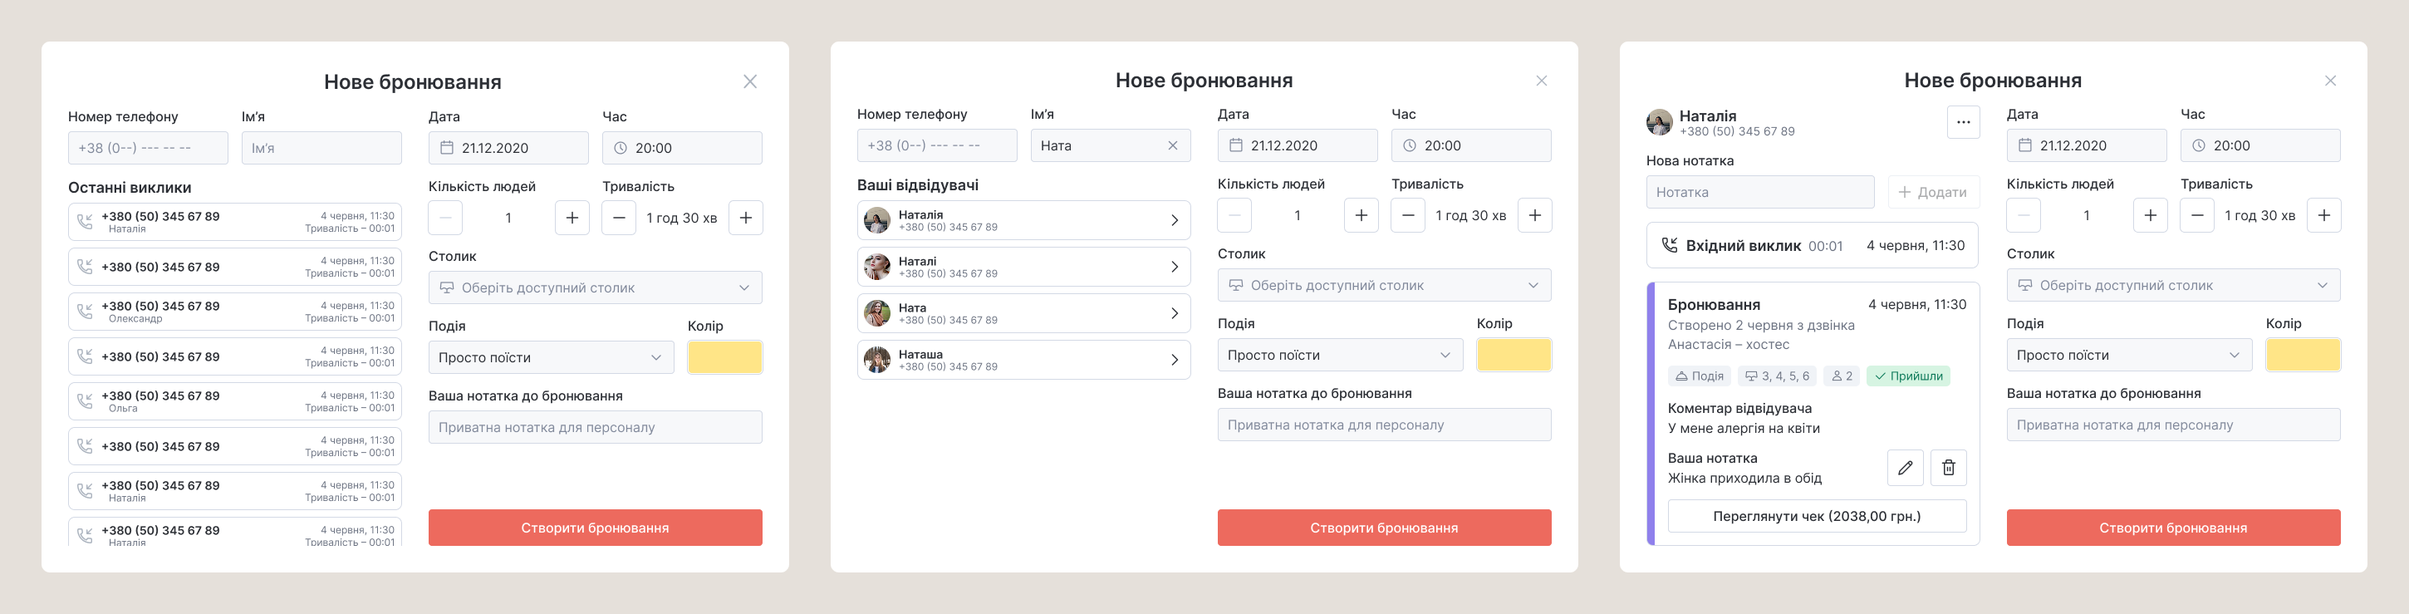
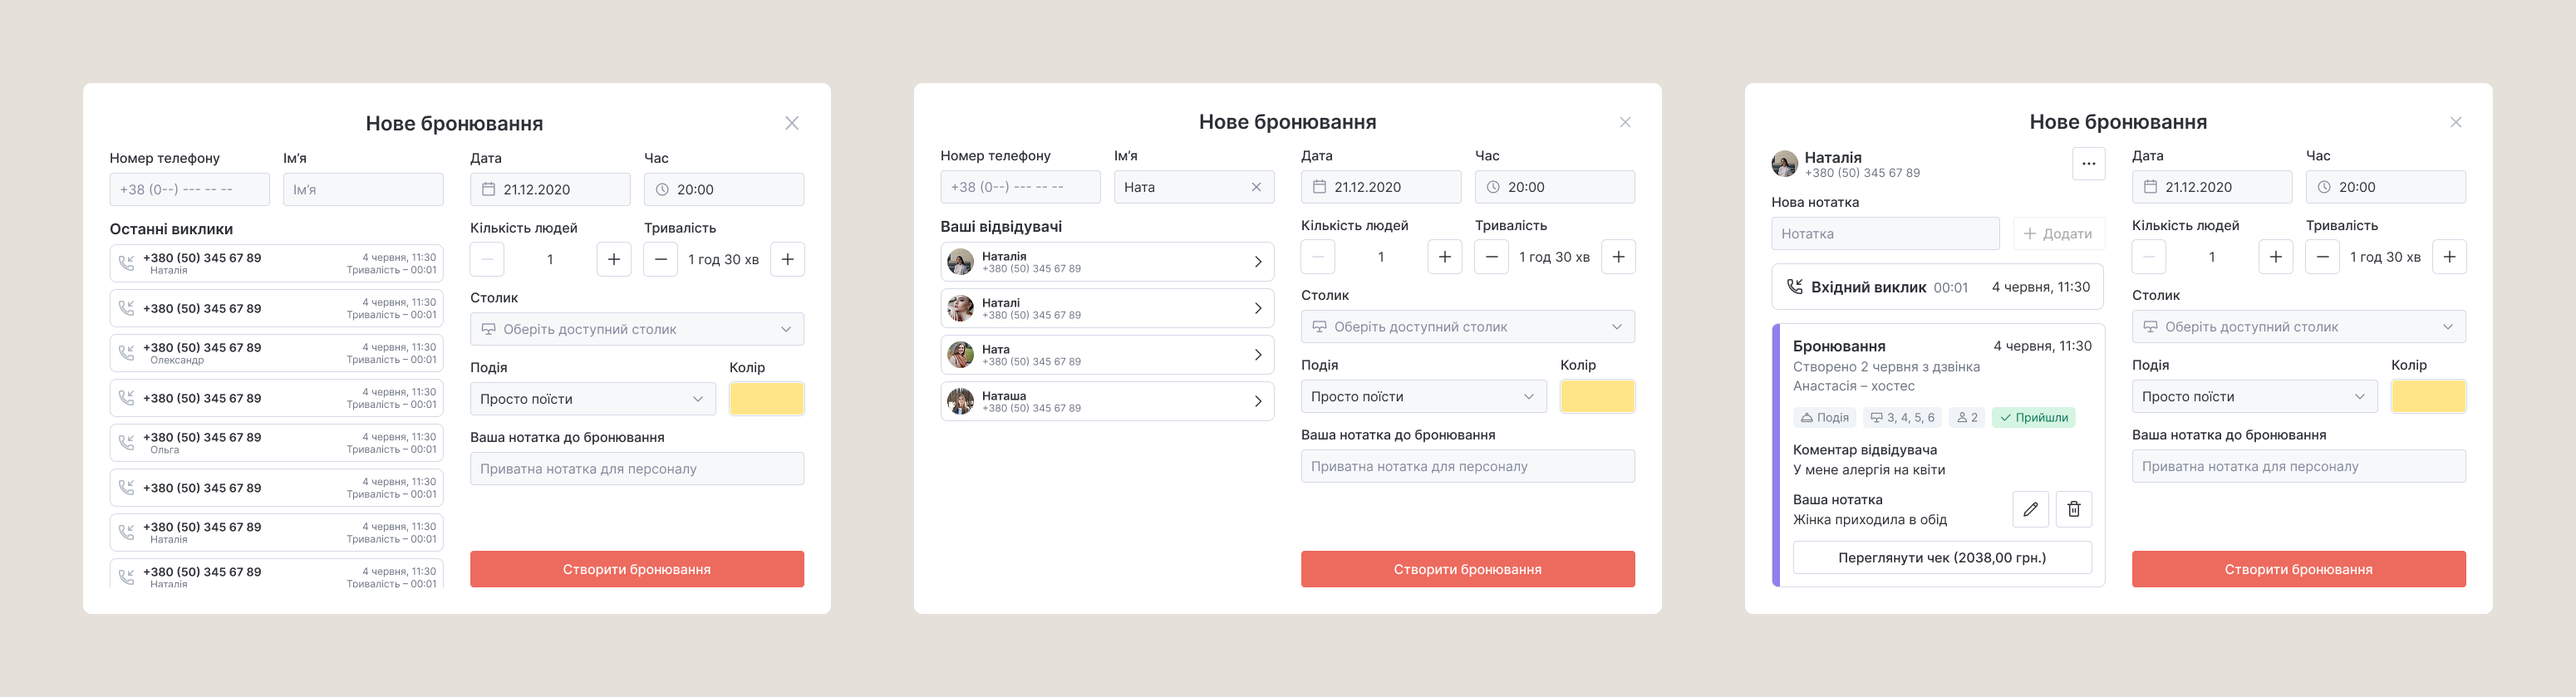
Writing case refinement

Changed region(s): [[0.0, 0.0622, 0.9931, 0.9337], [0.4345, 0.2179, 0.4655, 0.2801]]

diff --git a/js/site.js b/js/site.js
@@ -160,7 +160,13 @@ const revealIO = new IntersectionObserver(
         e.target.classList.add("in");
         // Drop the compositor hint only once the fade finishes — clearing it
         // mid-transition forces a re-raster (visible on the image-heavy cards).
-        e.target.addEventListener("transitionend", () => { e.target.style.willChange = "auto"; }, { once: true });
+        // The stagger delay goes too: it applies to every transition, so left
+        // in place it would also delay hover effects (and fully block the
+        // per-pointermove case-card tilt, which restarts before it elapses).
+        e.target.addEventListener("transitionend", () => {
+          e.target.style.willChange = "auto";
+          e.target.style.transitionDelay = "";
+        }, { once: true });
         revealIO.unobserve(e.target);
       }
     });
@@ -172,9 +178,11 @@ function observeReveals(root = document) {
     // Stagger by the element's position among its reveal-siblings in the same
     // container, so each group (a grid row, the process cards, a header block)
     // cascades in DOM order — independent of how many reveals precede it on the
-    // page. Capped so long lists don't drag.
+    // page. Capped so long lists don't drag. Case cards are exempt: they stack
+    // one per row, so they enter the viewport one at a time and a stagger would
+    // only make some of them arrive late.
     const sibs = [...el.parentElement.children].filter((c) => c.classList.contains("reveal"));
-    const idx = Math.max(0, sibs.indexOf(el));
+    const idx = el.classList.contains("case-card") ? 0 : Math.max(0, sibs.indexOf(el));
     el.style.transitionDelay = Math.min(idx, 3) * 80 + "ms";
     revealIO.observe(el);
   });
@@ -482,6 +490,8 @@ function initChrome() {
     if (card) card.scrollIntoView({ block: "start" });
   });
 
+  initCardTilt();
+
   // If an "index.html#section" link points at a section that exists on THIS
   // page (e.g. #contact on a case study), rewrite it to an in-page anchor so it
   // smooth-scrolls instead of navigating to the home page.
@@ -500,6 +510,38 @@ function initChrome() {
         if (t) { ev.preventDefault(); window.scrollTo({ top: t.getBoundingClientRect().top + window.scrollY - 32, behavior: "smooth" }); }
       }
     });
+  });
+}
+
+/* EXPERIMENT — pointer tilt on case cards. Maps the pointer inside the card to
+   a small rotation (cards are wide, so a few degrees already moves the edges a
+   lot), written as CSS vars styled in styles.css.
+   Delegated on document because cards are injected by renderWork(). */
+const TILT_MAX_DEG = 2;
+function initCardTilt() {
+  const mq = window.matchMedia("(hover: hover) and (pointer: fine) and (prefers-reduced-motion: no-preference)");
+  let frame = 0;
+
+  document.addEventListener("pointermove", (e) => {
+    if (!mq.matches) return;
+    const card = e.target.closest?.(".case-card");
+    if (!card) return;
+    cancelAnimationFrame(frame);
+    frame = requestAnimationFrame(() => {
+      const r = card.getBoundingClientRect();
+      const x = (e.clientX - r.left) / r.width;   // 0 → 1
+      const y = (e.clientY - r.top) / r.height;
+      card.classList.add("is-tilting");
+      card.style.setProperty("--ry", `${((x - 0.5) * 2 * TILT_MAX_DEG).toFixed(2)}deg`);
+      card.style.setProperty("--rx", `${((0.5 - y) * 2 * TILT_MAX_DEG).toFixed(2)}deg`);    });
+  });
+
+  document.addEventListener("pointerout", (e) => {
+    const card = e.target.closest?.(".case-card");
+    if (!card || card.contains(e.relatedTarget)) return;
+    cancelAnimationFrame(frame);
+    card.classList.remove("is-tilting");
+    ["--rx", "--ry"].forEach((p) => card.style.removeProperty(p));
   });
 }
 

diff --git a/styles.css b/styles.css
@@ -424,6 +424,20 @@ a.case-card {
   transition: opacity .6s ease-out, transform .25s ease, box-shadow .25s ease;
 }
 a.case-card:hover { transform: translateY(-4px); box-shadow: 0 1px 2px rgba(var(--shadow-ink),.05), 0 26px 46px -28px rgba(var(--shadow-ink),.34); }
+
+/* EXPERIMENT — pointer tilt. initCardTilt() in site.js feeds the pointer
+   position in as --rx/--ry (deg). Only active on fine hover pointers without
+   reduced motion (the JS gates on the same query), so touch and reduced-motion
+   keep the plain lift above. No glare/sheen — kept flat to stay paper-like. */
+@media (hover: hover) and (pointer: fine) and (prefers-reduced-motion: no-preference) {
+  a.case-card { --rx: 0deg; --ry: 0deg; }
+  a.case-card:hover {
+    transform: perspective(1600px) translateY(-4px) rotateX(var(--rx)) rotateY(var(--ry));
+  }
+  /* While the pointer moves, a short transform ease smooths the per-frame
+     updates without lagging; on leave the base .25s eases it back flat. */
+  a.case-card.is-tilting { transition: opacity .6s ease-out, transform .12s ease-out, box-shadow .25s ease; }
+}
 /* Cover keeps its original 16:10 shape and defines the card height; the body
    centres within it. row-reverse above puts the cover on the right, body on
    the left, while the markup order (cover first) stays the reading/DOM order.

diff --git a/content/case-studies/2021-writing.md b/content/case-studies/2021-writing.md
@@ -19,13 +19,17 @@ This project was a redesign of a web-based writing game that helps users find mo
 
 The client was passionate about the project and willing to conduct comprehensive research. We discussed and approved the research plan during a stakeholder interview. I started by investigating the current system and the information architecture. Then I conducted competitor research to see how competitors solved similar problems.
 
-Next, I moved to the user research, which included 5 interviews and 2 surveys. The platform had a loyal community of writers, so with client's input I was able to quickly find willing research participants.
+Next, I moved to the user research, which included **5 interviews** and **2 surveys**. The platform had a loyal community of writers, so with the client's input I was able to quickly find willing research participants.
 
-Finally, I reviewed the analytics, paying the most attention to the user pathways. This allowed me to check the self-reported data from users and refine the user flow.
+The first survey was focused on learning about the audience, their habits and motivations. The second one covered the usage of the platform itself. An interesting finding was that writers, unsurprisingly, really like to use the "Other" option in surveys, which led to a longer processing time of the responses. In the second survey, I cut the open-ended options in multiple choice questions to keep the data quantitative.
+
+![[writing-surveys.png]]
+
+Finally, I reviewed the analytics, paying the most attention to the user pathways. This allowed me to check the self-reported data from the interviews and surveys to refine the user flow.
 
 ![[writing-flow.png]]
 
-After completing the research stage, I analyzed the findings and defined several priority issues for the redesign. Then, I started building the updated prototype module by module. Every part of the process was discussed with the client and updated according to the feedback. For the priority modules, I also conducted unmoderated user testing with the interactive UX prototypes in Figma and gathered feedback in a qualitative survey.
+After completing the research stage, I analyzed the findings and defined several priority issues for the redesign. Then, I started building the updated prototype module by module. Every part of the process was discussed with the client and updated according to the feedback. For the priority modules, I also conducted unmoderated user testing with the interactive UX prototypes in Figma and gathered feedback from the users in a qualitative survey.
 
 ## Solution
 ### Improving retention through onboarding
